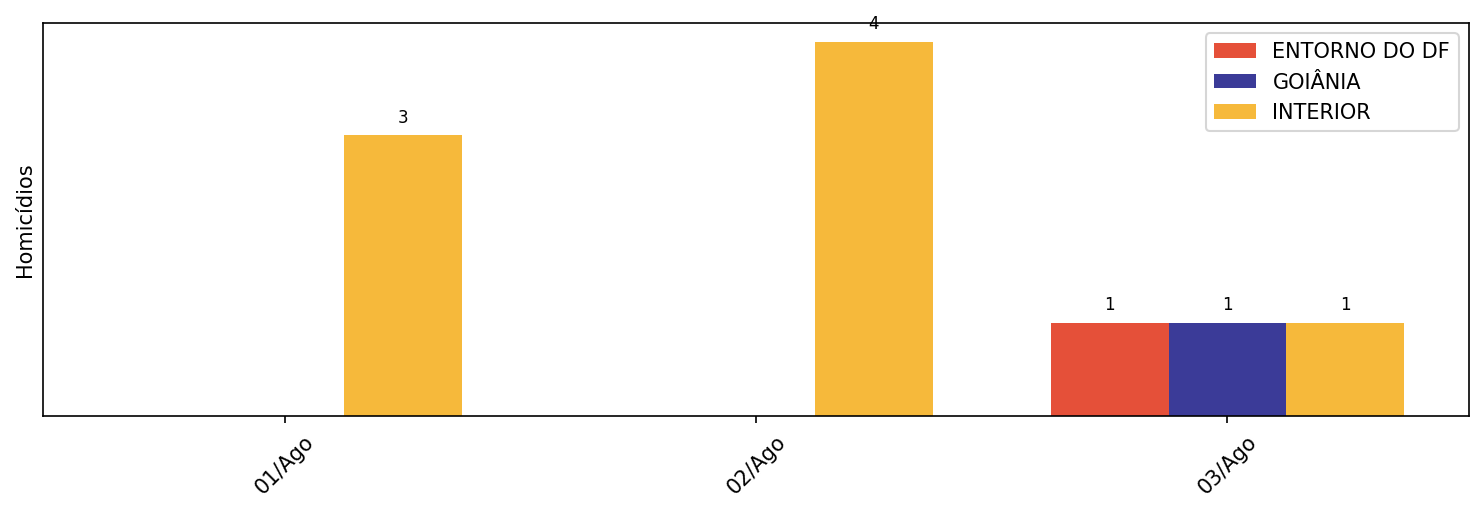
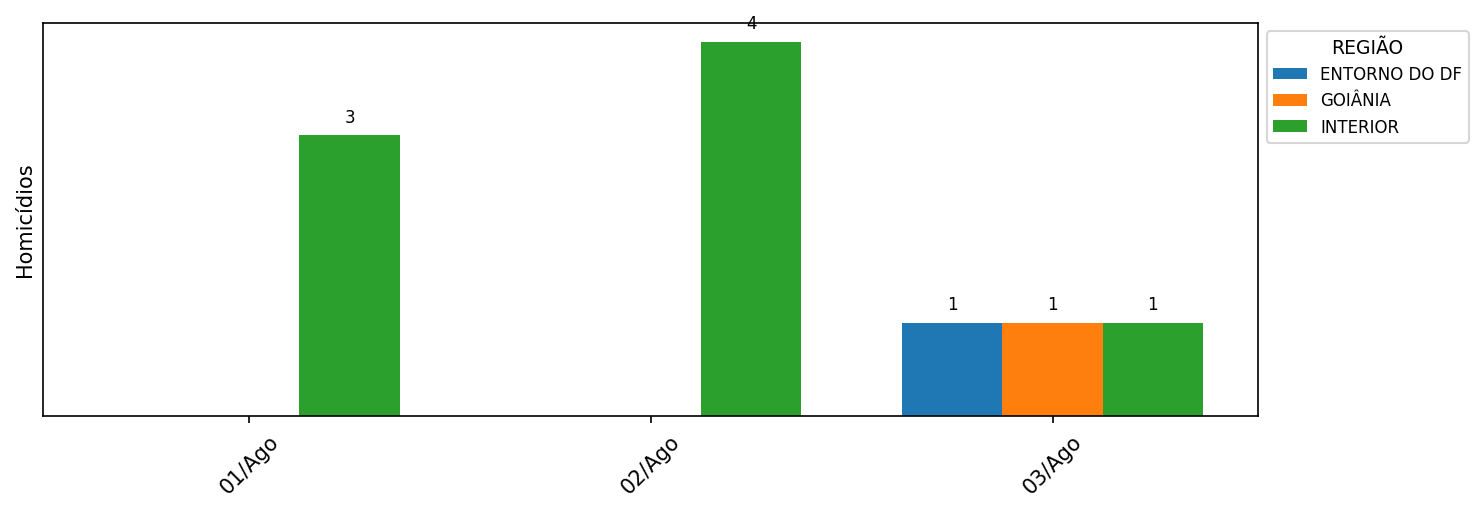
Padroniza títulos e gráficos no relatório de homicídios
Padroniza títulos de tabelas e gráficos para caixa baixa e remove cores fixas dos gráficos de barras. Renomeia variáveis e queries para refletir melhor o conteúdo (de 'Observatório' para 'Regiões'). Atualiza imagens PNG e PDF geradas para refletir as mudanças visuais e de nomenclatura.

diff --git a/relatorio_homicidios.py b/relatorio_homicidios.py
@@ -426,7 +426,7 @@ ORDER BY
   TO_NUMBER(TO_CHAR(oc.datafato, 'DD')), ano
 '''
 
-query_homicidios_comparativo_dia_observatorio ='''
+query_homicidios_comparativo_dia_regioes ='''
 SELECT
   CASE
 	  WHEN cid.uf <> 'GO' THEN NULL
@@ -615,7 +615,7 @@ queries = [
     ("Homicídio Todos os Anos", query_homicidio_comparativo_todos_anos),
     ("Homicídio Regiões", query_homicidio_regioes),
     ("Homicídio Comparativo por Dia", query_homicidios_comparativo_dia),
-    ("Homicídio Comparativo por Dia Observatório", query_homicidios_comparativo_dia_observatorio),
+    ("Homicídio Comparativo por Dia Regiões", query_homicidios_comparativo_dia_regioes),
     ("Homicídio Comparativo por Mes Observatório", query_homicidios_comparativo_mes_observatorio),
     ("Homicídio Comparativo por Semana Observatório", query_homicidios_comparativo_semana_observatorio)
 ]
@@ -730,12 +730,12 @@ pdf.cell(0, 15, str(homicidios_mes), ln=1, align='C')
 columns_homicidio_municipio, rows_homicidio_municipio = resultados["Homicídio Município"]
 
 # Espaço antes da tabela
-pdf.ln(5)
+pdf.ln(3)
 
 # Título da tabela
 pdf.set_font('Arial', 'B', 12)
 pdf.set_text_color(0, 0, 0)  # Preto
-titulo_municipio = f'Homicídios - Dia Anterior por Município :'
+titulo_municipio = f'Homicídios - dia anterior por município :'
 pdf.cell(0, 10, titulo_municipio, ln=1, align='L')
 
 # Cabeçalho da tabela de município
@@ -817,12 +817,12 @@ colunas_homicidio_todos_anos, linhas_homicidio_todos_anos = resultados["Homicíd
 df_homicidio_todos_anos = pd.DataFrame(linhas_homicidio_todos_anos, columns=colunas_homicidio_todos_anos)
 
 # Espaço antes da tabela
-pdf.ln(2)
+pdf.ln(1)
 
 # Título da tabela
 pdf.set_font('Arial', 'B', 12)
 pdf.set_text_color(0, 0, 0)  # Preto
-titulo_homicidio_todos_anos = f'Tabela de Homicidios Comparativo por Ano :'
+titulo_homicidio_todos_anos = f'Homicidios comparativo por ano :'
 pdf.cell(0, 10, titulo_homicidio_todos_anos, ln=1, align='L')
 
 # Cabeçalho da tabela de meses/anos
@@ -864,12 +864,12 @@ columns_regiao_observatorio_atualizada = [
 columns_regiao_observatorio, rows_regiao_observatorio = resultados["Homicídio Regiões"]
 
 # Espaço antes da tabela
-pdf.ln(4)
+pdf.ln(1)
 
 # Título da tabela
 pdf.set_font('Arial', 'B', 12)
 pdf.set_text_color(0, 0, 0)  # Preto
-titulo_regiao_observatorio = f'HOMICIDIOS POR REGIÕES - Comparativo Dia Anterior e Acumulado :'
+titulo_regiao_observatorio = f'Homicídios por regiões - comparativo dia anterior e acumulado :'
 pdf.cell(0, 10, titulo_regiao_observatorio, ln=1, align='L')
 
 col_widths_regiao_observatorio = [25, 20, 20, 20, 15, 24, 24, 15, 25]  # 9 colunas
@@ -953,10 +953,11 @@ if not df_dia.empty:
     anos = sorted(df_pivot.columns)
     bar_width = 0.4
     x = range(len(df_pivot.index))
-    cores = ['#3b3b98', '#218c5a']  # Azul e verde
+    #cores = ['#3b3b98', '#218c5a']  # Azul e verde
 
     for i, ano in enumerate(anos):
-        bars = plt.bar([xi + i*bar_width for xi in x], df_pivot[ano], width=bar_width, label=str(ano), color=cores[i % len(cores)])
+        bars = plt.bar([xi + i*bar_width for xi in x], df_pivot[ano], width=bar_width, label=str(ano))
+        #bars = plt.bar([xi + i*bar_width for xi in x], df_pivot[ano], width=bar_width, label=str(ano), color=cores[i % len(cores)])
         # Adiciona o valor acima de cada barra
         for bar in bars:
             height = bar.get_height()
@@ -973,7 +974,7 @@ if not df_dia.empty:
     plt.xticks([xi + bar_width/2 for xi in x], list(df_pivot.index), rotation=45)
     plt.ylabel('Homicídios')
     #plt.title(f'Homicídios - Por Dia no mês atual: {hoje.strftime("%b/%Y")} : {ontem.strftime("%d/%m/%Y")}', loc='left', fontsize=12, fontweight='bold', fontname='Arial')
-    plt.legend(title='', loc='best')
+    plt.legend(title='ANO', bbox_to_anchor=(1.00, 1), loc='upper left', fontsize=8, title_fontsize=9)
     plt.yticks([])
     plt.tight_layout()
     plt.savefig('grafico_homicidios_dia.png', dpi=150, bbox_inches='tight')
@@ -982,7 +983,7 @@ if not df_dia.empty:
     pdf.ln(3)
     pdf.set_font('Arial', 'B', 12)
     pdf.set_text_color(0, 0, 0)  # Preto
-    titulo_mes_atual = f'Homicídios - Por Dia no mês atual: {hoje.strftime("%b/%Y")}'
+    titulo_mes_atual = f'Homicídios - por dia no mês atual: {hoje.strftime("%b/%Y")}'
     pdf.cell(0, 10, titulo_mes_atual, ln=1, align='L')
     pdf.image('grafico_homicidios_dia.png', x=5, w=200)
     pdf.set_font('Arial', 'I', 9)
@@ -993,7 +994,7 @@ if not df_dia.empty:
 # Título da tabela
 pdf.set_font('Arial', 'B', 12)
 pdf.set_text_color(0, 0, 0)  # Preto
-titulo_por_dia = f'Homicídios Comparativo por Dia no Mês Atual : {ontem_data}'
+titulo_por_dia = f'Homicídios comparativo por dia no mês atual :'
 pdf.cell(0, 10, titulo_por_dia, ln=1, align='L')
 
 # Transpõe para: colunas = dias, linhas = anos
@@ -1024,8 +1025,11 @@ for ano, row in df_tab.iterrows():
         pdf.cell(col_width, 6, str(int(valor)), 1, 0, 'C')
     pdf.ln()
 
+pdf.set_font('Arial', 'I', 9)
+pdf.cell(0, 8, f'Até {ontem_data}', ln=1, align='L')
+
 # --- GRAFICO COMPARATIVO POR DIA OBSERVATÓRIO (por REGIAO_OBSERVATORIO)
-columns_dia_obs, rows_dia_obs = resultados["Homicídio Comparativo por Dia Observatório"]
+columns_dia_obs, rows_dia_obs = resultados["Homicídio Comparativo por Dia Regiões"]
 df_comparativo_dia = pd.DataFrame(rows_dia_obs, columns=columns_dia_obs)
 
 if not df_comparativo_dia.empty:
@@ -1039,10 +1043,11 @@ if not df_comparativo_dia.empty:
     regioes = sorted(df_pivot.columns)
     bar_width = 0.25
     x = range(len(df_pivot.index))
-    cores = ['#e55039', '#3b3b98', '#f6b93b']  # Vermelho, Azul, Amarelo
+    #cores = ['#e55039', '#3b3b98', '#f6b93b']  # Vermelho, Azul, Amarelo
 
     for i, regiao in enumerate(regioes):
-        bars = plt.bar([xi + i * bar_width for xi in x], df_pivot[regiao], width=bar_width, label=regiao, color=cores[i % len(cores)])
+        #bars = plt.bar([xi + i * bar_width for xi in x], df_pivot[regiao], width=bar_width, label=regiao, color=cores[i % len(cores)])
+        bars = plt.bar([xi + i * bar_width for xi in x], df_pivot[regiao], width=bar_width, label=regiao)
         for bar in bars:
             height = bar.get_height()
             if height > 0:
@@ -1057,7 +1062,8 @@ if not df_comparativo_dia.empty:
 
     plt.xticks([xi + bar_width * (len(regioes)/2 - 0.5) for xi in x], list(df_pivot.index), rotation=45)
     plt.ylabel('Homicídios')
-    plt.legend(title='', loc='best')
+    plt.legend(title='REGIÃO', bbox_to_anchor=(1.00, 1), loc='upper left', fontsize=8, title_fontsize=9)
+
     plt.yticks([])
     plt.tight_layout()
 
@@ -1067,7 +1073,7 @@ if not df_comparativo_dia.empty:
     pdf.ln(3)
     pdf.set_font('Arial', 'B', 12)
     pdf.set_text_color(0, 0, 0)
-    titulo_mes_regiao = f'Homicídios - Por Dia no mês atual: {hoje.strftime("%b/%Y")}'
+    titulo_mes_regiao = f'Homicídios - por dia no mês atual: {hoje.strftime("%b/%Y")}'
     pdf.cell(0, 10, titulo_mes_regiao, ln=1, align='L')
     pdf.image('grafico_homicidios_dia_regiao.png', x=5, w=200)
     pdf.set_font('Arial', 'I', 9)
@@ -1085,7 +1091,7 @@ tempo_execucao_resumo = (
     f'Homicídio Todos os Anos: {tempos_execucao["Homicídio Todos os Anos"]:.2f} | '
     f'Homicídio Regiões: {tempos_execucao["Homicídio Regiões"]:.2f} | '
     f'Homicídio Comparativo por Dia: {tempos_execucao["Homicídio Comparativo por Dia"]:.2f} '
-    f'Homicídio Comparativo por Dia Observatório: {tempos_execucao["Homicídio Comparativo por Dia Observatório"]:.2f} '
+    f'Homicídio Comparativo por Dia Regiões: {tempos_execucao["Homicídio Comparativo por Dia Regiões"]:.2f} '
     f'Homicídio Comparativo por Mes Observatório: {tempos_execucao["Homicídio Comparativo por Mes Observatório"]:.2f} '
     f'Homicídio Comparativo por Semana Observatório: {tempos_execucao["Homicídio Comparativo por Semana Observatório"]:.2f} '
 )
